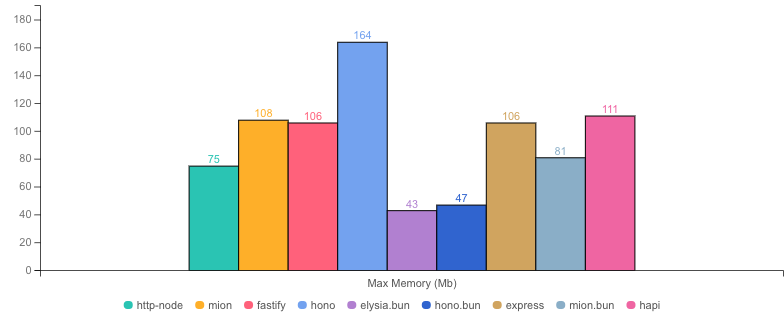
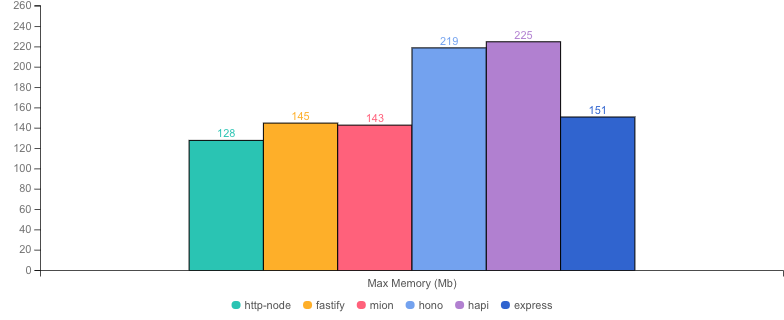
last round of benchmarks results 🚀

diff --git a/lib/packages.js b/lib/packages.js
@@ -26,6 +26,7 @@ const packages = {
     description: "mion using bun, automatic validation and serialization",
     isBun: true,
     fileExtension: ".js",
+    excludeFromHelloWorld: true, // autocannon is not fast enough to benchmark Bun servers accurately
   },
   hono: {
     hasRouter: true,
@@ -42,6 +43,7 @@ const packages = {
     description: "hono bun server with Zod validation",
     isBun: true,
     fileExtension: ".js", // Use compiled JS
+    excludeFromHelloWorld: true, // autocannon is not fast enough to benchmark Bun servers accurately
   },
   "elysia.bun": {
     checked: false,
@@ -52,6 +54,7 @@ const packages = {
     description: "Elysia framework with TypeBox validation",
     isBun: true,
     fileExtension: ".js", // Use compiled JS
+    excludeFromHelloWorld: true, // autocannon is not fast enough to benchmark Bun servers accurately
   },
   // TODO: check why this is not working after last update
   // deepkit: {

diff --git a/benchmark-bench.js b/benchmark-bench.js
@@ -49,6 +49,21 @@ async function run() {
     modules = options.all ? choices : await select();
   }
 
+  // Filter out Bun servers from hello world benchmarks
+  // Reason: autocannon (Node.js-based) is not fast enough to accurately benchmark Bun servers
+  // See: https://bun.sh/docs/project/benchmarking
+  if (options.benchmark === "servers-hello") {
+    const excludedModules = modules.filter(
+      (m) => getBenchmarkInfo(m).excludeFromHelloWorld,
+    );
+    if (excludedModules.length > 0) {
+      console.log(
+        `Excluding Bun servers from hello world benchmark (autocannon limitation): ${excludedModules.join(", ")}`,
+      );
+    }
+    modules = modules.filter((m) => !getBenchmarkInfo(m).excludeFromHelloWorld);
+  }
+
   return bench(options, modules, getBenchmarkInfo);
 }
 

diff --git a/lib/autocannon.js b/lib/autocannon.js
@@ -66,19 +66,6 @@ const run = (opts = {}, handler) =>
           },
         },
       ];
-    } else {
-      // Hello world benchmark - use explicit requests configuration for consistency
-      opts.requests = [
-        {
-          method: "GET",
-          setupRequest: (req, context) => {
-            req.headers = {
-              accept: "*/*",
-            };
-            return req;
-          },
-        },
-      ];
     }
 
     const memCheck = setInterval(() => {

diff --git a/HELLO-WORLD.md b/HELLO-WORLD.md
@@ -23,6 +23,20 @@ These benchmarks test the typical hello world response, not very useful, but sho
 
 > The hello world benchmark is related to the router's performance as parameters validation is not involved.
 
+## Why Bun servers are excluded
+
+Bun servers (mion.bun, hono.bun, elysia.bun) are **excluded from the hello world benchmarks** because the benchmarking tool used (autocannon) is not fast enough to accurately measure Bun's performance.
+
+As stated in the [Bun documentation](https://bun.sh/docs/project/benchmarking):
+
+> "For load testing, you _must use_ an HTTP benchmarking tool that is at least as fast as `Bun.serve()`, or your results will be skewed. Some popular Node.js-based benchmarking tools like `autocannon` are not fast enough."
+
+When benchmarking Bun servers with autocannon, the results show inverted performance characteristics (simple endpoints appearing slower than complex ones), which indicates the benchmarking tool itself is the bottleneck, not the server.
+
+**Bun servers are still included in the [main benchmarks](README.md)** (updateUser endpoint) where the additional processing overhead (validation, serialization, business logic) makes autocannon's limitations less impactful on the results.
+
+For accurate Bun benchmarks, tools like `bombardier`, `oha`, or `http_load_test` (all written in Rust/Go) should be used instead.
+
 ```ts
 // ### mion ###
 export const routes = {
@@ -39,8 +53,8 @@ app.get("/hello", function (req, res) {
 
 * __Machine:__ darwin x64 | 8 vCPUs | 16.0GB Mem
 * __Node:__ `v24.13.0`
-* __Run:__ Mon Feb 02 2026 19:48:33 GMT+0000 (Greenwich Mean Time)
-* __Method:__ `autocannon -c 100 -d 4.01 -p 10 localhost:3000` (two rounds; one to warm-up, one to measure)
+* __Run:__ Mon Feb 02 2026 20:34:03 GMT+0000 (Greenwich Mean Time)
+* __Method:__ `autocannon -c 100 -d 30.01 -p 10 localhost:3000` (two rounds; one to warm-up, one to measure)
 
 #### Req (R/s) 
 
@@ -72,14 +86,11 @@ app.get("/hello", function (req, res) {
 
 
 
-|              | Version   | Router | Req (R/s)   | Latency (ms) | Output (Mb/s) | Max Memory (Mb) | Max Cpu (%) | Validation | Description                                                |
-| :--          | --:       | --:    | :-:         | --:          | --:           | --:             | --:         | :-:        | :--                                                        |
-| http-node    | 16.18.0   | ✗      | 35544.0     | 27.57        | 6.34          | 75              | 121         | ✓          | bare node http server with Zod validation                  |
-| **mion**     | **0.6.2** | **✓**  | **28888.0** | **34.00**    | **5.21**      | **108**         | **106**     | **✓**      | **Automatic validation and serialization out of the box**  |
-| fastify      | 4.10.2    | ✓      | 24660.0     | 40.25        | 4.42          | 106             | 119         | ✓          | Fastify with Zod validation                                |
-| hono         | 3.12.6    | ✓      | 24452.0     | 40.20        | 4.36          | 164             | 109         | ✓          | hono node server with Zod validation                       |
-| elysia.bun   | 1.0.0     | ✓      | 15480.0     | 63.67        | 1.85          | 43              | 97          | ✓          | Elysia framework with TypeBox validation                   |
-| hono.bun     | 3.12.6    | ✓      | 12956.0     | 75.96        | 1.73          | 47              | 95          | ✓          | hono bun server with Zod validation                        |
-| express      | 4.22.1    | ✓      | 12098.0     | 81.42        | 2.16          | 106             | 113         | ✓          | Express with Zod validation                                |
-| **mion.bun** | **0.6.2** | **✓**  | **11068.0** | **88.94**    | **1.50**      | **81**          | **99**      | **✓**      | **mion using bun, automatic validation and serialization** |
-| hapi         | 21.4.4    | ✓      | 9580.5      | 103.55       | 1.71          | 111             | 87          | ✓          | Hapi with Zod validation                                   |
+|           | Version   | Router | Req (R/s)   | Latency (ms) | Output (Mb/s) | Max Memory (Mb) | Max Cpu (%) | Validation | Description                                               |
+| :--       | --:       | --:    | :-:         | --:          | --:           | --:             | --:         | :-:        | :--                                                       |
+| http-node | 16.18.0   | ✗      | 41799.5     | 23.40        | 7.45          | 128             | 120         | ✓          | bare node http server with Zod validation                 |
+| fastify   | 4.10.2    | ✓      | 38932.3     | 25.20        | 6.98          | 145             | 119         | ✓          | Fastify with Zod validation                               |
+| **mion**  | **0.6.2** | **✓**  | **37097.6** | **26.44**    | **6.69**      | **143**         | **118**     | **✓**      | **Automatic validation and serialization out of the box** |
+| hono      | 3.12.6    | ✓      | 29589.3     | 33.28        | 5.28          | 219             | 117         | ✓          | hono node server with Zod validation                      |
+| hapi      | 21.4.4    | ✓      | 28793.1     | 34.21        | 5.13          | 225             | 121         | ✓          | Hapi with Zod validation                                  |
+| express   | 4.22.1    | ✓      | 21454.9     | 46.07        | 3.83          | 151             | 116         | ✓          | Express with Zod validation                               |

diff --git a/README.md b/README.md
@@ -91,8 +91,8 @@ Our goal is to perform similar to fastify as it is the industry standard in term
 
 * __Machine:__ darwin x64 | 8 vCPUs | 16.0GB Mem
 * __Node:__ `v24.13.0`
-* __Run:__ Mon Feb 02 2026 19:46:13 GMT+0000 (Greenwich Mean Time)
-* __Method:__ `autocannon -c 100 -d 4.09 -p 10 localhost:3000` (two rounds; one to warm-up, one to measure)
+* __Run:__ Mon Feb 02 2026 20:29:15 GMT+0000 (Greenwich Mean Time)
+* __Method:__ `autocannon -c 100 -d 30.46 -p 10 localhost:3000` (two rounds; one to warm-up, one to measure)
 
 #### Req (R/s) 
 
@@ -126,12 +126,12 @@ Our goal is to perform similar to fastify as it is the industry standard in term
 
 |              | Version   | Router | Req (R/s)   | Latency (ms) | Output (Mb/s) | Max Memory (Mb) | Max Cpu (%) | Validation | Description                                                |
 | :--          | --:       | --:    | :-:         | --:          | --:           | --:             | --:         | :-:        | :--                                                        |
-| hono.bun     | 3.12.6    | ✓      | 25660.0     | 38.98        | 5.33          | 62              | 107         | ✓          | hono bun server with Zod validation                        |
-| **mion.bun** | **0.6.2** | **✓**  | **23920.0** | **41.86**    | **3.24**      | **83**          | **104**     | **✓**      | **mion using bun, automatic validation and serialization** |
-| elysia.bun   | 1.0.0     | ✓      | 21264.0     | 46.09        | 4.11          | 72              | 103         | ✓          | Elysia framework with TypeBox validation                   |
-| **mion**     | **0.6.2** | **✓**  | **14864.0** | **66.35**    | **2.68**      | **109**         | **119**     | **✓**      | **Automatic validation and serialization out of the box**  |
-| http-node    | 16.18.0   | ✗      | 13740.0     | 71.98        | 3.47          | 69              | 115         | ✓          | bare node http server with Zod validation                  |
-| fastify      | 4.10.2    | ✓      | 12604.0     | 78.26        | 3.20          | 89              | 122         | ✓          | Fastify with Zod validation                                |
-| express      | 4.22.1    | ✓      | 8487.5      | 98.66        | 2.14          | 90              | 112         | ✓          | Express with Zod validation                                |
-| hono         | 3.12.6    | ✓      | 7311.0      | 106.58       | 1.85          | 233             | 135         | ✓          | hono node server with Zod validation                       |
-| hapi         | 21.4.4    | ✓      | 7076.0      | 105.94       | 1.79          | 97              | 138         | ✓          | Hapi with Zod validation                                   |
+| hono.bun     | 3.12.6    | ✓      | 28636.3     | 34.91        | 5.95          | 62              | 109         | ✓          | hono bun server with Zod validation                        |
+| **mion.bun** | **0.6.2** | **✓**  | **26648.5** | **37.10**    | **3.61**      | **81**          | **107**     | **✓**      | **mion using bun, automatic validation and serialization** |
+| elysia.bun   | 1.0.0     | ✓      | 24597.3     | 40.13        | 4.76          | 73              | 104         | ✓          | Elysia framework with TypeBox validation                   |
+| **mion**     | **0.6.2** | **✓**  | **17408.4** | **56.89**    | **3.14**      | **146**         | **120**     | **✓**      | **Automatic validation and serialization out of the box**  |
+| http-node    | 16.18.0   | ✗      | 17213.7     | 57.54        | 4.35          | 96              | 123         | ✓          | bare node http server with Zod validation                  |
+| fastify      | 4.10.2    | ✓      | 15684.3     | 63.19        | 3.98          | 108             | 121         | ✓          | Fastify with Zod validation                                |
+| express      | 4.22.1    | ✓      | 10300.8     | 96.42        | 2.60          | 146             | 112         | ✓          | Express with Zod validation                                |
+| hapi         | 21.4.4    | ✓      | 9390.7      | 105.81       | 2.37          | 156             | 108         | ✓          | Hapi with Zod validation                                   |
+| hono         | 3.12.6    | ✓      | 9338.5      | 106.40       | 2.36          | 256             | 116         | ✓          | hono node server with Zod validation                       |
